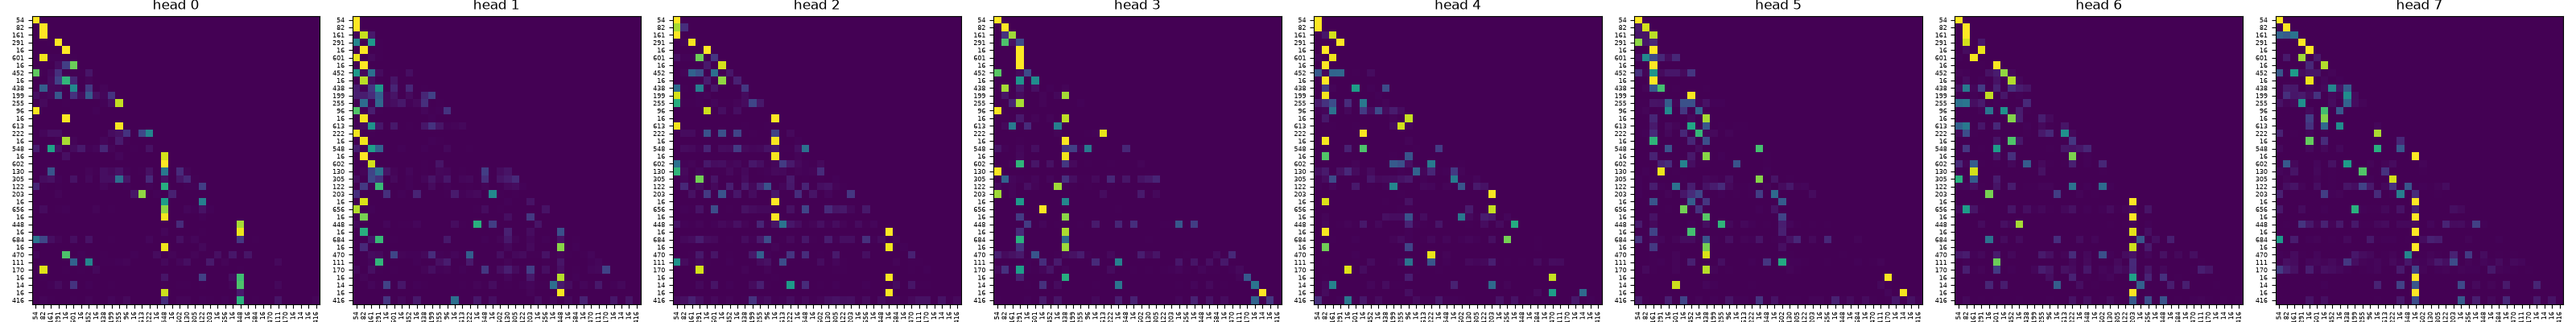
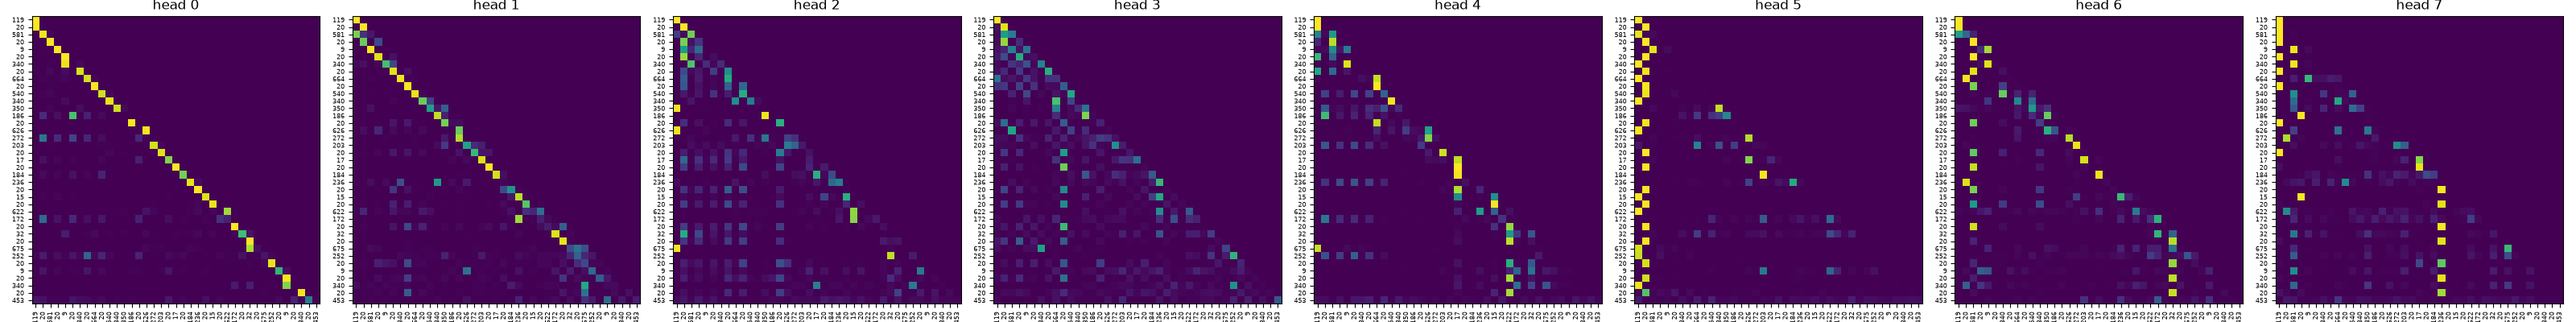
Change: (Logging) Update logger to use log scale

diff --git a/traininglogger/visualiser.py b/traininglogger/visualiser.py
@@ -37,9 +37,10 @@ def visualiseLoss(path: str) -> None:
 
         plt.xlabel("step")
         plt.ylabel("loss")
+        plt.yscale("log")  # loss spans orders of magnitude; log scale shows the convergence shape
         plt.title(f"Training loss (batchSize={header['batchSize']}, numEpochs={header['numEpochs']})")
         plt.legend()
-        plt.savefig("loss_curve.png")
+        plt.savefig("docs/loss_curve.png")
         plt.show()
     else:
         raise FileNotFoundError(f"No such log file: {path}")
@@ -76,6 +77,7 @@ def visualiseAttention(path: str) -> None:
         ax.set_title(f"head {headIdx}")
 
     fig.tight_layout()
-    fig.savefig("attention_heatmap.png")
+    fig.savefig("docs/attention_heatmap.png")
     plt.show()
+
 
